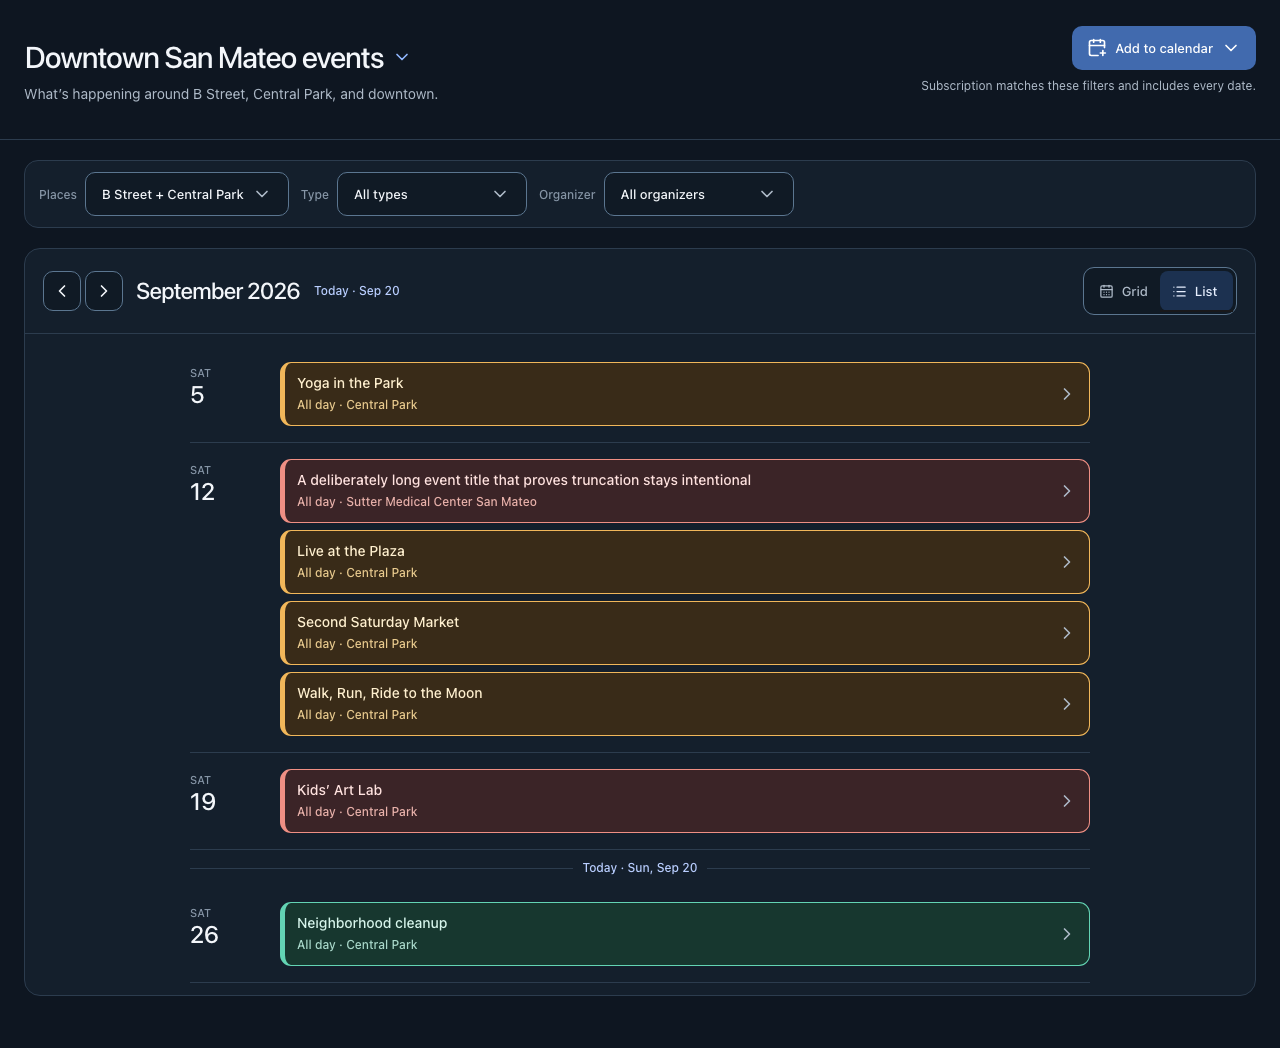
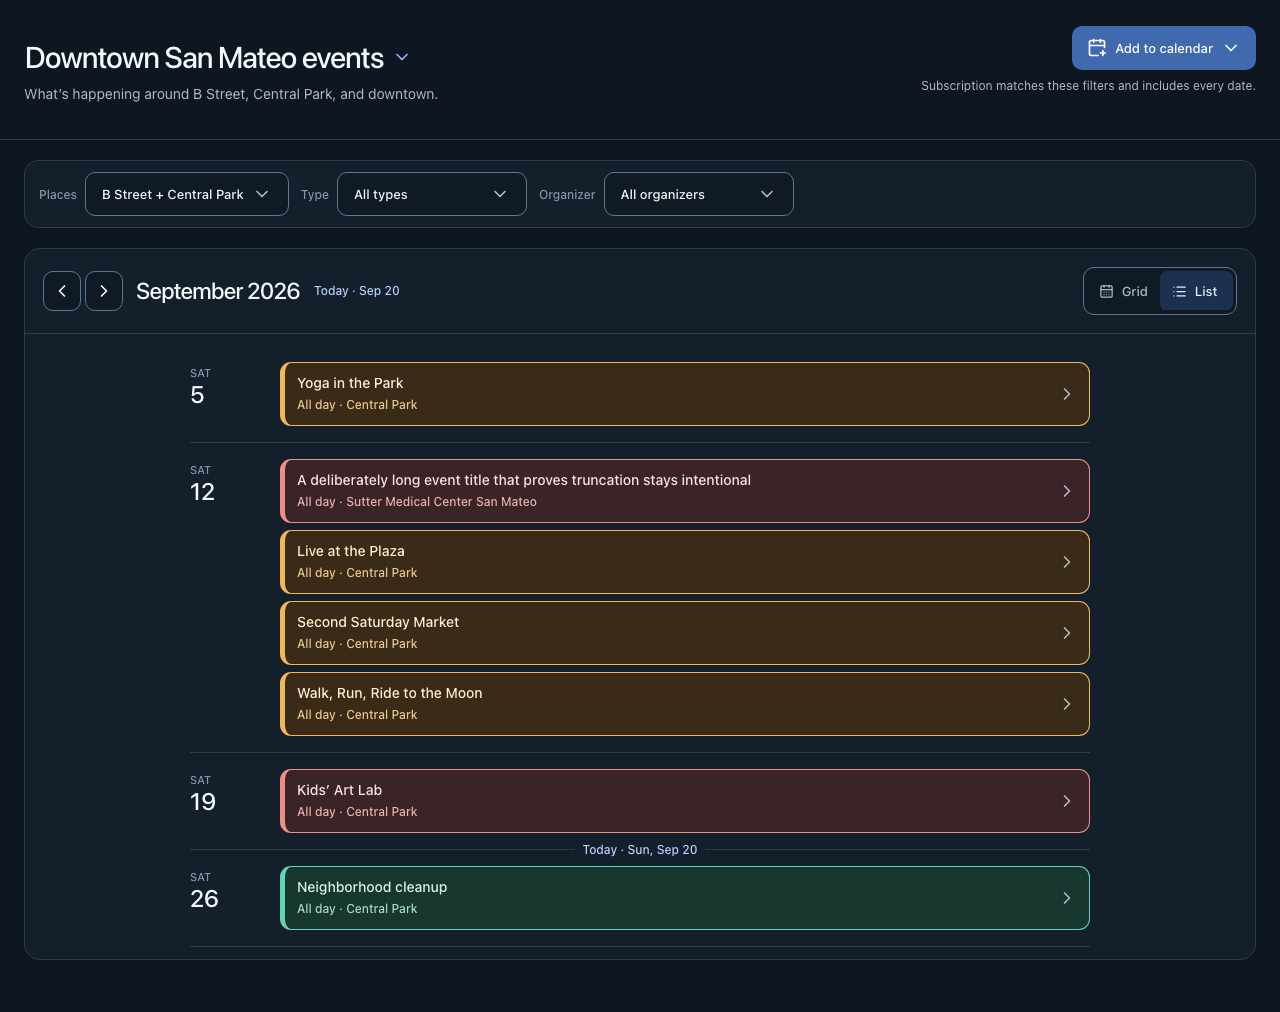
fix(frontend): make Today the single List boundary

diff --git a/frontend/e2e/today-divider.visual.spec.ts b/frontend/e2e/today-divider.visual.spec.ts
@@ -1,4 +1,4 @@
-import { expect, test, type Page } from '@playwright/test'
+import { expect, test, type Locator, type Page } from '@playwright/test'
 
 const noTodayEvent = new Date('2026-09-20T12:00:00-07:00')
 const todayEvent = new Date('2026-09-26T12:00:00-07:00')
@@ -14,12 +14,14 @@ async function openFixture(page: Page, width: number, now: Date) {
 
 async function subscriptionUrl(page: Page) {
   await page.getByRole('button', { name: 'Add to calendar' }).click()
+  const menu = page.getByRole('menu')
   const href = await page
     .getByText('Apple Calendar')
     .locator('xpath=ancestor::a[1]')
     .getAttribute('href')
-  await page.keyboard.press('Escape')
-  await expect(page.getByRole('menu')).toBeHidden()
+  await menu.focus()
+  await menu.press('Escape')
+  await expect(menu).toBeHidden()
   return href
 }
 
@@ -65,6 +67,47 @@ async function backgroundColor(page: Page, day: string) {
   )
 }
 
+async function expectBoundaryRhythm(page: Page, divider: Locator) {
+  const row5 = page.locator('#calendar-list-day-2026-09-05')
+  const row12 = page.locator('#calendar-list-day-2026-09-12')
+  const row19 = page.locator('#calendar-list-day-2026-09-19')
+  const row26 = page.locator('#calendar-list-day-2026-09-26')
+  await expect(row5).toHaveCSS('border-bottom-width', '0px')
+  await expect(row19).toHaveCSS('border-bottom-width', '0px')
+  const ordinaryRule = row5.locator('xpath=following-sibling::*[1]')
+  await expect(ordinaryRule).toHaveCSS('height', '1px')
+  expect(
+    await divider.evaluate(element => element.previousElementSibling?.id)
+  ).toBe('calendar-list-day-2026-09-19')
+  const [
+    normalRule,
+    normalBefore,
+    normalAfter,
+    boundaryBefore,
+    boundaryAfter,
+    rule
+  ] = await Promise.all([
+    ordinaryRule.boundingBox(),
+    row5.getByRole('button').first().boundingBox(),
+    row12.getByRole('button').first().boundingBox(),
+    row19.getByRole('button').first().boundingBox(),
+    row26.getByRole('button').first().boundingBox(),
+    divider.locator('[aria-hidden="true"]').first().boundingBox()
+  ])
+  const normalLine = normalRule!.y + normalRule!.height / 2
+  const boundaryLine = rule!.y + rule!.height / 2
+  expect(
+    Math.abs(
+      boundaryLine -
+        (boundaryBefore!.y + boundaryBefore!.height) -
+        (normalLine - (normalBefore!.y + normalBefore!.height))
+    )
+  ).toBeLessThanOrEqual(2)
+  expect(
+    Math.abs(boundaryAfter!.y - boundaryLine - (normalAfter!.y - normalLine))
+  ).toBeLessThanOrEqual(2)
+}
+
 for (const [width, name] of [
   [1280, 'desktop'],
   [390, 'mobile-390'],
@@ -88,6 +131,7 @@ for (const [width, name] of [
       expect(
         await divider.evaluate(element => element.nextElementSibling?.id)
       ).toBe(`calendar-list-day-${nextDay}`)
+      await expectBoundaryRhythm(page, divider)
       const today = page.getByRole('button', { name: /Go to today,/ })
       await expect(today).toBeEnabled()
       await expect(today).toContainText(
@@ -112,6 +156,87 @@ for (const [width, name] of [
   }
 }
 
+for (const [instant, position] of [
+  ['2026-09-01T12:00:00-07:00', 'start'],
+  ['2026-09-30T12:00:00-07:00', 'end']
+] as const) {
+  test(`Today divider at the ${position} stays inside the List`, async ({
+    page
+  }) => {
+    await openFixture(page, 320, new Date(instant))
+    await page.getByRole('tab', { name: 'List' }).click()
+    const divider = page.locator('#calendar-today-divider')
+    const list = page.getByRole('tabpanel', { name: 'List' })
+    const [dividerBox, listBox] = await Promise.all([
+      divider.boundingBox(),
+      list.boundingBox()
+    ])
+    const ordinaryRule = page
+      .locator('#calendar-list-day-2026-09-05')
+      .locator('xpath=following-sibling::*[1]')
+    const [ordinaryRuleBox, dividerRuleBox] = await Promise.all([
+      ordinaryRule.boundingBox(),
+      divider.locator('[aria-hidden="true"]').first().boundingBox()
+    ])
+    const ordinaryLine = ordinaryRuleBox!.y + ordinaryRuleBox!.height / 2
+    const dividerLine = dividerRuleBox!.y + dividerRuleBox!.height / 2
+    expect(dividerBox!.y).toBeGreaterThanOrEqual(listBox!.y)
+    expect(dividerBox!.y + dividerBox!.height).toBeLessThanOrEqual(
+      listBox!.y + listBox!.height
+    )
+    if (position === 'start') {
+      expect(
+        await divider.evaluate(element => element.previousElementSibling)
+      ).toBeNull()
+      const [firstCard, nextCard] = await Promise.all([
+        page
+          .locator('#calendar-list-day-2026-09-05')
+          .getByRole('button')
+          .first()
+          .boundingBox(),
+        page
+          .locator('#calendar-list-day-2026-09-12')
+          .getByRole('button')
+          .first()
+          .boundingBox()
+      ])
+      expect(
+        Math.abs(firstCard!.y - dividerLine - (nextCard!.y - ordinaryLine))
+      ).toBeLessThanOrEqual(2)
+    } else {
+      expect(
+        await divider.evaluate(element => element.nextElementSibling)
+      ).toBeNull()
+      await expect(page.locator('#calendar-list-day-2026-09-26')).toHaveCSS(
+        'border-bottom-width',
+        '0px'
+      )
+      const [lastCard, earlierCard] = await Promise.all([
+        page
+          .locator('#calendar-list-day-2026-09-26')
+          .getByRole('button')
+          .first()
+          .boundingBox(),
+        page
+          .locator('#calendar-list-day-2026-09-05')
+          .getByRole('button')
+          .first()
+          .boundingBox()
+      ])
+      expect(
+        Math.abs(
+          dividerLine -
+            (lastCard!.y + lastCard!.height) -
+            (ordinaryLine - (earlierCard!.y + earlierCard!.height))
+        )
+      ).toBeLessThanOrEqual(2)
+    }
+    expect(
+      await page.evaluate(() => document.documentElement.scrollWidth)
+    ).toBe(320)
+  })
+}
+
 for (const width of [1280, 390, 320]) {
   test(`Today returns to List and scrolls the boundary into view at ${width}px`, async ({
     page
@@ -133,6 +258,9 @@ for (const width of [1280, 390, 320]) {
     }
     const divider = page.locator('#calendar-today-divider')
     await expect(divider).toBeFocused()
+    await expect(divider).toHaveAccessibleName(
+      'Today, Sunday, September 20, 2026'
+    )
     const box = await divider.boundingBox()
     expect(box!.y).toBeGreaterThanOrEqual(0)
     expect(box!.y + box!.height).toBeLessThanOrEqual(600)

diff --git a/frontend/src/components/CalendarViews.tsx b/frontend/src/components/CalendarViews.tsx
@@ -198,17 +198,21 @@ export function CalendarList(props: {
     return result
   }, [props.projections])
   const days = [...groups].sort(([left], [right]) => left.localeCompare(right))
-  const dividerIndex = props.todayKey
+  const firstOnOrAfter = props.todayKey
     ? days.findIndex(([day]) => day >= props.todayKey!)
     : -1
-  const divider = props.todayKey ? (
-    <TodayDivider dateKey={props.todayKey} />
-  ) : null
+  const todayBoundary = props.todayKey
+    ? firstOnOrAfter === -1
+      ? days.length
+      : firstOnOrAfter
+    : null
   return (
     <Stack w="min(900px, calc(100% - 28px))" mx="auto" py="12px" gap="0">
+      {props.todayKey && todayBoundary === 0 && (
+        <ListBoundary dateKey={props.todayKey} placement="start" />
+      )}
       {days.map(([day, events], index) => (
         <Fragment key={day}>
-          {index === dividerIndex && divider}
           <Grid
             id={`calendar-list-day-${day}`}
             gridTemplateColumns={{
@@ -217,8 +221,6 @@ export function CalendarList(props: {
             }}
             gap={{ base: '10px', md: '18px' }}
             py="16px"
-            borderBottomWidth="1px"
-            borderColor="calendar.border"
           >
             <Box pt="3px">
               <Text
@@ -252,22 +254,34 @@ export function CalendarList(props: {
               ))}
             </Stack>
           </Grid>
+          <ListBoundary
+            dateKey={todayBoundary === index + 1 ? props.todayKey : null}
+            placement={index === days.length - 1 ? 'end' : 'between'}
+          />
         </Fragment>
       ))}
-      {dividerIndex === -1 && divider}
     </Stack>
   )
 }
 
-function TodayDivider(props: { dateKey: string }) {
+function ListBoundary(props: {
+  dateKey: string | null
+  placement: 'start' | 'between' | 'end'
+}) {
+  if (!props.dateKey)
+    return <Box h="1px" bg="calendar.border" aria-hidden="true" />
   return (
     <Flex
       id="calendar-today-divider"
       tabIndex={-1}
       aria-label={`Today, ${fullDate(props.dateKey)}`}
       align="center"
-      gap="10px"
-      py="9px"
+      gap="8px"
+      h="21px"
+      mt={props.placement === 'start' ? '0' : '-10px'}
+      mb={props.placement === 'end' ? '0' : '-10px'}
+      position="relative"
+      zIndex="1"
       scrollMarginTop="18px"
       _focusVisible={focusRing}
     >

diff --git a/docs/design/calendar-explorer.md b/docs/design/calendar-explorer.md
@@ -140,6 +140,10 @@ or emptiness never broadens or erases persisted intent.
   dates when today has no event. It sits at the start or end if all events are
   later or earlier. It is not an event, target, filter, or count item; its thin
   rules are decorative and its date text is available to assistive technology.
+  One List boundary owns every separator. It renders either a plain rule or the
+  Today-labelled rule; event rows draw no separator. Card-to-rule spacing on
+  both sides matches an ordinary boundary, so the cue adds no extra blank row
+  or parallel rule.
   Other months, loading, failure, no-event months, and intentionally empty
   filters have no divider. Past event cards keep their normal appearance.
 - The month toolbar shows `Today · <short month and day>` with the full date and
@@ -230,6 +234,7 @@ needed to prevent recurrence.
 | Invented taxonomy hid production aliases/tags                | Remote D1 was never inspected                                                                                                                | Query production before UI taxonomy                                                                                                           | SQL, Wrangler JSON, grouped IDs                                                                    |
 | Menu indicators crossed option labels                        | Custom padding overwrote reserved anatomy                                                                                                    | Preserve compound geometry                                                                                                                    | Zero control/label overlap                                                                         |
 | Type at 320px shipped narrow with a giant All-row ring (#39) | Places was sampled at 320px while Type/Organizer were sampled only on desktop; `_focusWithin` styled the whole row for pointer-initial focus | Cover each distinct surface at every geometry-changing viewport; pointer and keyboard focus are separate states; narrow panels match triggers | Playwright screenshots plus trigger/panel, row/control/label, focus-style, and viewport assertions |
+| Today cue doubled List rule and gap (#43)                    | A row and a separate divider each owned part of one date boundary, so their border and spacing decisions had to stay synchronized            | One List boundary renders either the ordinary rule or the Today-labelled rule; event rows render events                                       | One boundary node, no row border, card-to-rule gaps within 2px of ordinary                         |
 
 ## Executable visual denominator
 
@@ -254,9 +259,9 @@ of surface, viewport, and state. A screenshot proves only the captured cell.
 real Vite application and deterministic production-shaped fixtures. The Today
 cells also use a fixed LA clock to assert divider position, visible and
 accessible dates, focus and scroll behavior, target geometry, document width,
-computed contrast, clean runtime logs, and unchanged canonical subscription
-URLs. A date rollover changes the cue and marker without changing the preview
-month or moving the page.
+computed contrast, a single rule with ordinary row spacing, clean runtime logs,
+and unchanged canonical subscription URLs. A date rollover changes the cue and
+marker without changing the preview month or moving the page.
 Playwright snapshots catch composition. DOM rectangle and computed-style
 assertions enforce alignment, containment, target size, overlap, focus, and
 document width. Both are required.

diff --git a/docs/screenshots/today-divider/README.md b/docs/screenshots/today-divider/README.md
@@ -18,7 +18,8 @@ The executable browser contract in
 `frontend/e2e/today-divider.visual.spec.ts` also captures List with and without
 a today event at 1280, 390, and 320px, plus Grid at 320px, on Darwin and Linux.
 Its DOM and computed-style assertions check divider placement, visible date,
-text contrast, toolbar target height, document width, scroll and visible focus
-after Today, Grid's marker through midnight, runtime errors, and the unchanged
-exact subscription URL. Each screenshot
-shows only its stated viewport and state.
+text contrast, the absence of a second row border, card-to-rule spacing against
+an ordinary date boundary, toolbar target height, document width, scroll and
+visible focus after Today, Grid's marker through midnight, runtime errors, and
+the unchanged exact subscription URL. Each screenshot shows only its stated
+viewport and state.

diff --git a/frontend/README.md b/frontend/README.md
@@ -18,7 +18,8 @@ surface × viewport × interaction-state denominator executable.
 - `components/ExplorerHeader.tsx` owns calendar identity and subscription
   actions. `ExplorerFilters.tsx` owns per-calendar filter controls.
   `CalendarPanel.tsx` owns period and representation controls,
-  `CalendarViews.tsx` owns Grid/List and busy-day overflow, and
+  `CalendarViews.tsx` owns Grid/List, their single date-group boundary, and
+  busy-day overflow, and
   `EventDetails.tsx` owns event representations and disclosure.
 - `content.ts` owns feed identity and reset-type labels; `use-media.ts` owns
   responsive observation. Component-specific interface copy stays with its
